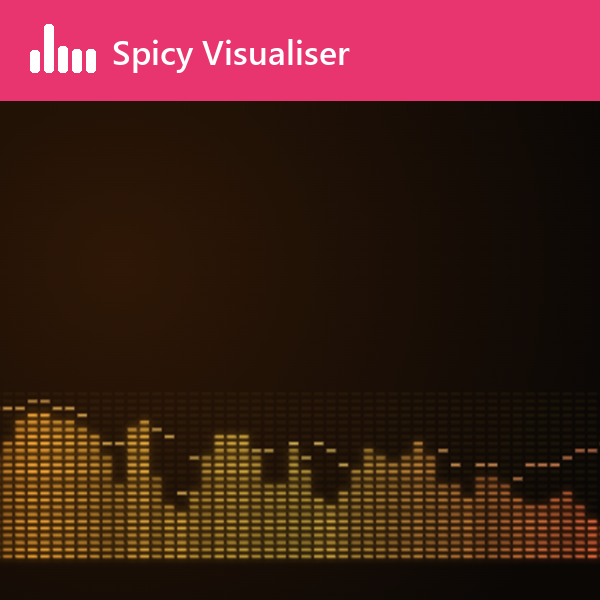
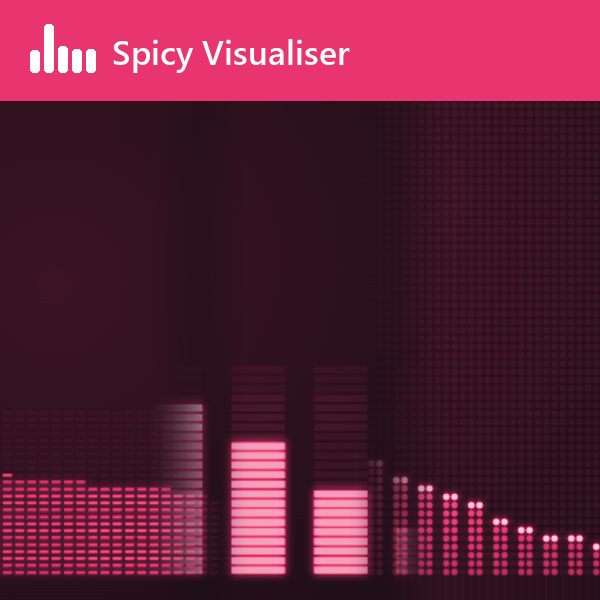
Marketplace card: three styles side by side in one pink, moved by a slow calm wave

diff --git a/test/song/card-frames.js b/test/song/card-frames.js
@@ -1,5 +1,6 @@
-// Frames for the moving Marketplace card: a few styles playing the test
-// track, visualiser only, one frame every ~70 ms.
+// Frames for the moving Marketplace card: three styles, visualiser only, all
+// fed the same calm made-up signal (a soft wave rolling slowly across the
+// bands, no music, no beats), one frame every 125 ms for one 9 s loop.
 //   node test/song/card-frames.js  ->  test/out/card/<style>-<n>.png
 // then: python tools/make-card.py
 "use strict";
@@ -7,17 +8,8 @@ const { chromium } = require("playwright");
 const fs = require("fs");
 const path = require("path");
 const OUT = path.join(__dirname, "..", "out");
-const frames = JSON.parse(fs.readFileSync(path.join(OUT, "song-frames.json"), "utf8"));
 const harness = fs.readFileSync(path.join(__dirname, "..", "harness.html"), "utf8");
-const BEAT = 60 / 123;
-
-const ALBUMS = [
-  { cover: ["#ff8a1f", "#ffd34a", "#e0402a"], bg: ["#3a1d08", "#0d0906"] }, // warm orange
-  { cover: ["#19c3b0", "#9ff2e0", "#1d5fa8"], bg: ["#07303a", "#050b10"] }, // teal / blue
-  { cover: ["#8a3cff", "#33d6ff", "#ff4fd8"], bg: ["#22104a", "#07061a"] }, // purple / cyan
-  { cover: ["#ff3355", "#ff9a8a", "#a01a50"], bg: ["#40101c", "#0f0508"] }, // red / rose
-  { cover: ["#6fd34a", "#e6f78a", "#1f8a6c"], bg: ["#12301a", "#050c07"] }, // green / lime
-];
+const LOOP = 9000; // ms: the signal repeats exactly, so the card loops cleanly
 
 const HIDE = ".LyricsContainer,.ViewControls,.lp-nolyr{visibility:hidden!important}.NowBar{display:none!important}";
 
@@ -29,28 +21,33 @@ function page(album) {
     .replace('"../spicy-visualiser.js"', '"spicy-visualiser.js"');
 }
 
-async function open(b, js, album, atBar) {
+async function open(b, js, album) {
   const p = await b.newPage({ viewport: { width: 1280, height: 720 } });
   await p.route("http://song.test/**", (r) => {
     if (r.request().url().endsWith(".js")) return r.fulfill({ body: js, contentType: "text/javascript" });
     return r.fulfill({ body: page(album), contentType: "text/html" });
   });
-  const start = Math.max(0, Math.round((atBar * 4 * BEAT - 3) * 60));
-  await p.addInitScript(([frames]) => {
+  await p.addInitScript((LOOP) => {
+    // a soft wave rolling across the bands once per loop, breathing gently
+    window.__sigT0 = performance.now();
+    const sig = () => {
+      const ph = (((performance.now() - window.__sigT0) % LOOP) / LOOP) * Math.PI * 2;
+      const lv = 0.5 + 0.08 * Math.sin(ph * 2);
+      const wave = (x) => Math.max(0, Math.min(1, lv + 0.22 * Math.sin(x * Math.PI * 2 * 1.2 - ph)));
+      const b = Array.from({ length: 64 }, (_, i) => wave(i / 63));
+      const lo = Array.from({ length: 40 }, (_, i) => wave(i / 39));
+      return { b, lo, ld: lo.map((v) => 20 * Math.log10(Math.max(1e-4, v))), a: 0.2, l: lv, k: 0, s: 0 };
+    };
     window.WebSocket = class {
       constructor() {
         this.readyState = 1;
         setTimeout(() => this.onopen && this.onopen(), 10);
-        const t0 = performance.now();
-        this.iv = setInterval(() => {
-          const i = Math.floor((performance.now() - t0) / (1000 / 60));
-          this.onmessage && this.onmessage({ data: JSON.stringify(frames[i % frames.length]) });
-        }, 16);
+        this.iv = setInterval(() => this.onmessage && this.onmessage({ data: JSON.stringify(sig()) }), 16);
       }
       send() {}
       close() { clearInterval(this.iv); }
     };
-  }, [frames.slice(start, start + 60 * 12)]);
+  }, LOOP);
   p.on("pageerror", (e) => console.log("ERROR", e.message));
   await p.goto("http://song.test/index.html");
   await p.waitForTimeout(800);
@@ -59,16 +56,18 @@ async function open(b, js, album, atBar) {
 const setter = (p) => (k, v) => p.evaluate(([k, v]) => { const btn = document.querySelector(".lp-button"); btn.click(); document.querySelector(`[data-key=${k}] button[data-v=${v}]`).click(); btn.click(); }, [k, v]);
 
 
-const CARD = [["holospec", 0, 24], ["ledm", 2, 12], ["led", 4, 21]];
-const N = 44; // pictures per style, one every 125 ms (the card plays them at that speed)
+// all three in the same pinks, to match the card's top bar
+const ALBUM = { cover: ["#e8356f", "#ff6f9a", "#c42a62"], bg: ["#3a0f22", "#0d0609"] };
+const CARD = ["holospec", "ledm", "led"];
+const N = LOOP / 125; // pictures per style, one every 125 ms (the card plays them at that speed)
 
 (async () => {
   const b = await chromium.launch({ channel: process.env.LP_BROWSER || undefined, args: ["--use-gl=angle", "--use-angle=swiftshader", "--enable-unsafe-swiftshader"] });
   const js = fs.readFileSync(path.join(__dirname, "..", "..", "spicy-visualiser.js"));
   const dir = path.join(OUT, "card");
   fs.mkdirSync(dir, { recursive: true });
-  for (const [style, album, atBar] of CARD) {
-    const p = await open(b, js, ALBUMS[album], atBar);
+  for (const style of CARD) {
+    const p = await open(b, js, ALBUM);
     const set = setter(p);
     await set("lyricGlow", "off");
     await set("__style", style);
@@ -84,7 +83,9 @@ const N = 44; // pictures per style, one every 125 ms (the card plays them at th
     });
     await p.addStyleTag({ content: HIDE + ".lp-button,.lp-modal-wrap{display:none!important}" });
     await p.waitForTimeout(2500);
-    // evenly spaced in real time, so the card moves at the song's real speed
+    // start at the beginning of the wave, so all three styles are in step
+    await p.waitForTimeout(await p.evaluate((L) => L - ((performance.now() - window.__sigT0) % L), LOOP));
+    // evenly spaced in real time, so the card moves at the real speed
     const t0 = Date.now();
     for (let i = 0; i < N; i++) {
       const wait = t0 + i * 125 - Date.now();

diff --git a/tools/make-card.py b/tools/make-card.py
@@ -1,21 +1,19 @@
 """Builds the Marketplace card, docs/screenshots/card.webp, from pictures
 made by test/song/card-frames.js: a coloured bar on top with the name and
-the bars icon, and below it one style at a time, each zooming in very
-slowly and then fading softly into the next. The style pictures themselves
-play at their real speed while they show; the icon's bars rise and fall.
+the bars icon, and below it Spectrum, Meters and Wall side by side, blended
+softly into each other and lined up along the bottom. They all move with the
+same slow, calm wave; the icon's bars rise and fall gently.
   node test/song/card-frames.js && python tools/make-card.py"""
 import math
 import os
-from PIL import Image, ImageChops, ImageDraw, ImageFont
+from PIL import Image, ImageChops, ImageDraw, ImageFont, ImageOps
 
 ROOT = os.path.join(os.path.dirname(__file__), "..")
 SRC = os.path.join(ROOT, "test", "out", "card")
 OUT = os.path.join(ROOT, "docs", "screenshots", "card.webp")
 IDS = ["holospec", "ledm", "led"]  # Spectrum, Meters, Wall
 FOCUS = {"holospec": 0.35, "ledm": 0.5, "led": 0.6}
-EACH, FADE = 36, 8  # frames per style and frames of fade into the next (125 ms each)
-N = EACH * len(IDS)  # the whole loop: 13.5 s
-ZOOM = 0.08  # how far each style zooms in while it's showing
+N = 72  # frames in the loop, 125 ms each (9 s, the same as the wave)
 S = 600
 BH = 100  # the bar on top
 PINK = (232, 53, 111)
@@ -79,52 +77,28 @@ def aligned(im, floor=None):
     return out
 
 
-still = Image.new("RGB", (S, S), BG)
+# each style's pictures cropped to its column, all moved by the same amount so
+# the drawing ends on FLOOR (the same line for every style)
+COLS = []
 for (x0, w, m), sid in zip(MASKS, IDS):
-    im = Image.open(os.path.join(SRC, f"{sid}-24.png")).convert("RGB")
-    s = H / im.height
-    im = im.resize((round(im.width * s), H), Image.LANCZOS)
-    left = max(0, min(im.width - w, round(im.width * FOCUS[sid] - w / 2)))
-    still.paste(aligned(im.crop((left, 0, left + w, H))), (x0, BH), m)
-# each style's pictures, cropped to fill the space under the bar (with room
-# to zoom), all moved by the same amount so every style ends on the same line
-def prep(sid, n):
-    im = Image.open(os.path.join(SRC, f"{sid}-{n}.png")).convert("RGB")
-    sc = H * (1 + ZOOM) / im.height
-    im = im.resize((round(im.width * sc), round(im.height * sc)), Image.LANCZOS)
-    w = round(S * (1 + ZOOM))
-    left = max(0, min(im.width - w, round(im.width * 0.5 - w / 2)))
-    return im.crop((left, 0, left + w, im.height))
-
-
-FULL = []
-for sid in IDS:
-    pics = [prep(sid, n) for n in range(EACH + FADE)]
-    ch = pics[0].height
-    dy = ch - round(40 * (1 + ZOOM)) - max(content_bottom(p) for p in pics)
-    FULL.append([aligned(p, content_bottom(p) + dy) for p in pics])
-
-
-def view(i, z, n):
-    """Style i, picture n, zoomed in by z (0..ZOOM), held to the bottom so the bars stay put."""
-    im = FULL[i][n]
-    cw, ch = im.width / (1 + z), im.height / (1 + z)
-    x0 = (im.width - cw) / 2
-    return im.crop((round(x0), round(im.height - ch), round(x0 + cw), im.height)).resize((S, H), Image.LANCZOS)
-
-
-def ease(t):
-    return t * t * (3 - 2 * t)
+    pics = []
+    for n in range(N):
+        im = Image.open(os.path.join(SRC, f"{sid}-{n}.png")).convert("RGB")
+        s = H / im.height
+        im = im.resize((round(im.width * s), H), Image.LANCZOS)
+        left = max(0, min(im.width - w, round(im.width * FOCUS[sid] - w / 2)))
+        # one pink for all three (Meters has its own fixed colours in the app)
+        g = ImageOps.grayscale(im.crop((left, 0, left + w, H)))
+        pics.append(ImageOps.colorize(g, black=BG, mid=PINK, white=(255, 214, 228), midpoint=110))
+    floor = max(content_bottom(p) for p in pics)
+    COLS.append([aligned(p, FLOOR - floor + content_bottom(p)) for p in pics])
 
 
 frames = []
 for k in range(N):
-    i, f = divmod(k, EACH)
-    z = ZOOM * (f + FADE) / (EACH + FADE)  # zooms the whole time it shows, fade included
-    pic = view(i, z, f + FADE)
-    if f >= EACH - FADE:  # fade into the next one, which starts zoomed out
-        nxt = view((i + 1) % len(IDS), ZOOM * (f - (EACH - FADE)) / (EACH + FADE), f - (EACH - FADE))
-        pic = Image.blend(pic, nxt, ease((f - (EACH - FADE) + 1) / (FADE + 1)))
+    pic = Image.new("RGB", (S, H), BG)
+    for (x0, w, m), col in zip(MASKS, COLS):
+        pic.paste(col[k], (x0, 0), m)
     card = Image.new("RGB", (S, S), BG)
     card.paste(pic, (0, BH))
     d = ImageDraw.Draw(card)
@@ -132,7 +106,7 @@ for k in range(N):
     # the icon: five bars, each bouncing a little at its own pace (loops cleanly)
     base, bw, gap = BH // 2 + 22, 9, 5
     for i, (hh, sp, ph) in enumerate(((30, 1, 0.1), (48, 2, 1.7), (36, 1, 3.1), (54, 1, 4.4), (24, 2, 2.2))):
-        t = k / N * 2 * math.pi * 4  # four swings per loop
+        t = k / N * 2 * math.pi * 2  # two slow swings per loop
         h = hh * (0.4 + 0.6 * (0.5 + 0.5 * math.sin(t * sp + ph)))
         x = 30 + i * (bw + gap)
         d.rounded_rectangle((x, base - h, x + bw, base), 3, fill=(255, 255, 255))
